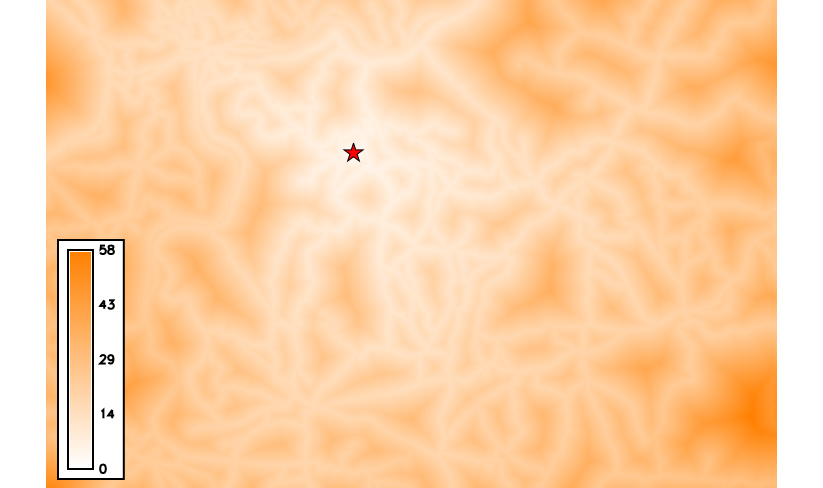
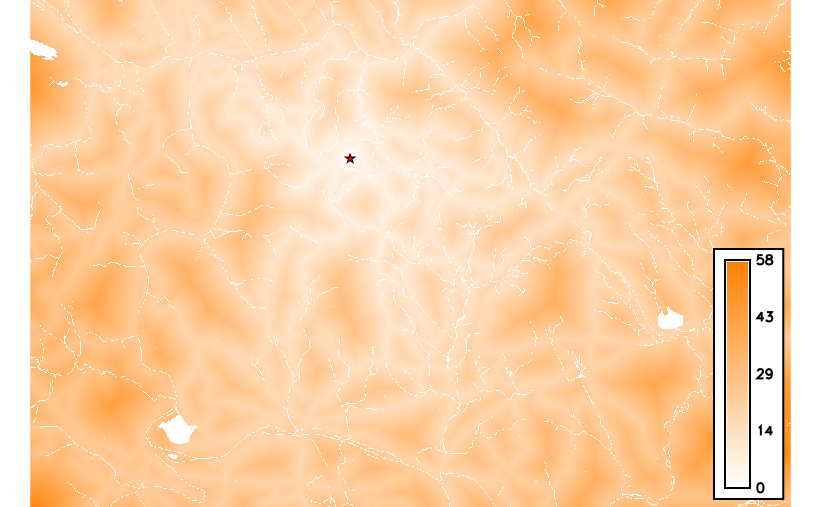
naklady: bariery

diff --git a/rastrova_data/analyza-nakladu.rst b/rastrova_data/analyza-nakladu.rst
@@ -76,7 +76,17 @@ z mapového okna nebo z příkazové řádky:
 
 .. code-block:: bash
                 
-   v.to.rast input=silnice output=silnice use=attr attribute_column=rychlost
+   v.to.rast input=silnice output=silnice_rast use=attr attribute_column=rychlost type=line
+
+Dále použijeme vrstvy :map:`vodni\_toky` a :map:`vodni\_nadrze` jako
+přirozené bariéry pro pohyb mimo silnice. Provedeme rasterizaci,
+rastrové vrstvy složíme pomocí modulu :grasscmd:`r.patch`.
+
+.. code-block:: bash
+                
+   v.to.rast input=vodni_toky output=vodni_toky_rast use=val type=line
+   v.to.rast input=vodni_nadrze output=vodni_nadrze_rast use=val type=area
+   r.patch input=vodni_toky_rast,vodni_nadrze_rast output=bariery             
 
 .. raw:: latex
 
@@ -94,13 +104,13 @@ kapitola :doc:`tabulka-barev`.
 
 .. code-block:: bash
 
-   r.mapcalc expression='rychlost = if(isnull(silnice), 5, silnice)'
+   r.mapcalc expression='rychlost = if(isnull(silnice_rast), if(isnull(bariery), 5, null()), silnice_rast)'
    r.colors -n map=rychlost color=sepia
    
 .. figure:: images/grass-streets-speed.png
    :scale-latex: 60
 
-   Rasterizovaná síť silnic s atributem průměrné rychlosti.
+   Rasterizovaná síť silnic s atributem průměrné rychlosti a bariérami.
 
 Modulem :grasscmd:`v.in.ascii` vytvoříme vektorovou mapu s ohniskem
 požáru. Souřadnice bodu (-754235,-980474) zadáme v notaci ``X|Y|cat``,
@@ -191,7 +201,7 @@ flow`).
 
 .. code-block:: bash
 
-   r.drain -n input=cas_naklady output=cesta start_coordinates=-750649,-992867
+   r.drain -n input=cas_naklady output=cesta_rast start_coordinates=-750649,-992867
 
 .. figure:: images/grass-streets-path.png
    :class: middle
@@ -211,4 +221,4 @@ flow`).
 
    .. code-block:: bash
 
-      r.to.vect input=cesta output=cesta type=line
+      r.to.vect input=cesta_rast output=cesta type=line
